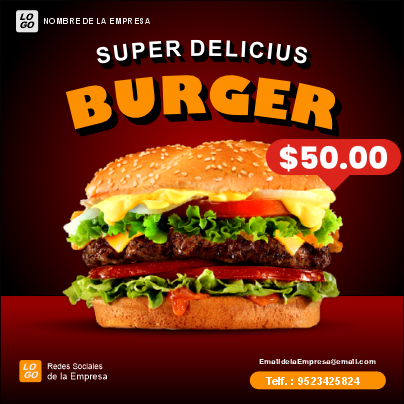
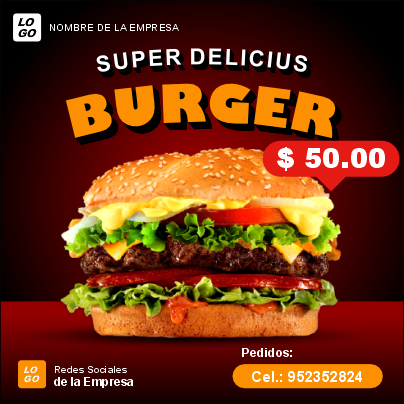
modificado

diff --git a/webUXUI_1/static/Estilos.css b/webUXUI_1/static/Estilos.css
@@ -363,9 +363,8 @@ nav>ul>li:hover .nav_ul_1 {
     .title_description {
         width: 85%;
         margin: 45px auto 20px auto;
-        padding: 15px;
         font-size: 16px;
-        background-color: rgb(255, 207, 118);
+        background-color: rgb(252, 199, 100);
     }
 
     .p_description {